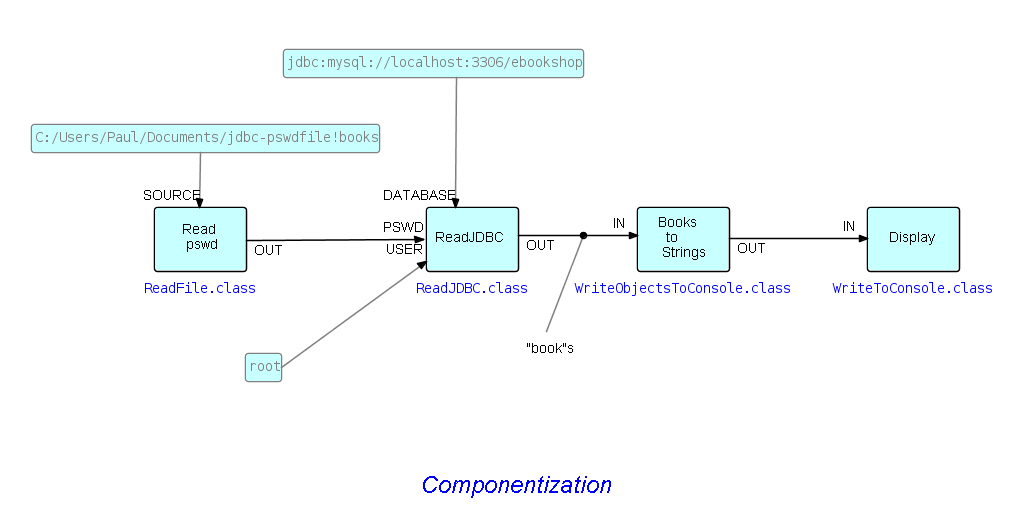
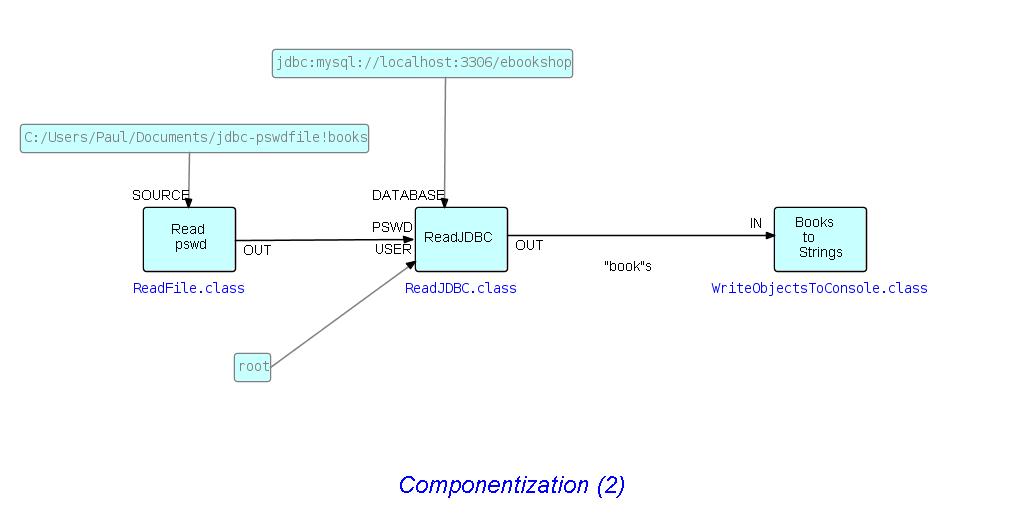
Dropped extra process from diagram

diff --git a/src/com/jpaulmorrison/jdbcstuff/core/components/WriteObjectsToConsole.java b/src/com/jpaulmorrison/jdbcstuff/core/components/WriteObjectsToConsole.java
@@ -22,7 +22,7 @@ import com.jpaulmorrison.fbp.core.engine.Component;
 	 */
 	@ComponentDescription("Write stream of packets to console")
 	@InPort(value = "IN", description = "Packets to be displayed")
-	@OutPort(value = "OUT", optional = true, description = "Output port, if connected", type = String.class)
+	@OutPort(value = "OUT", optional = true, description = "Output port, if connected")
 	@MustRun
 	public class WriteObjectsToConsole extends Component {
 
